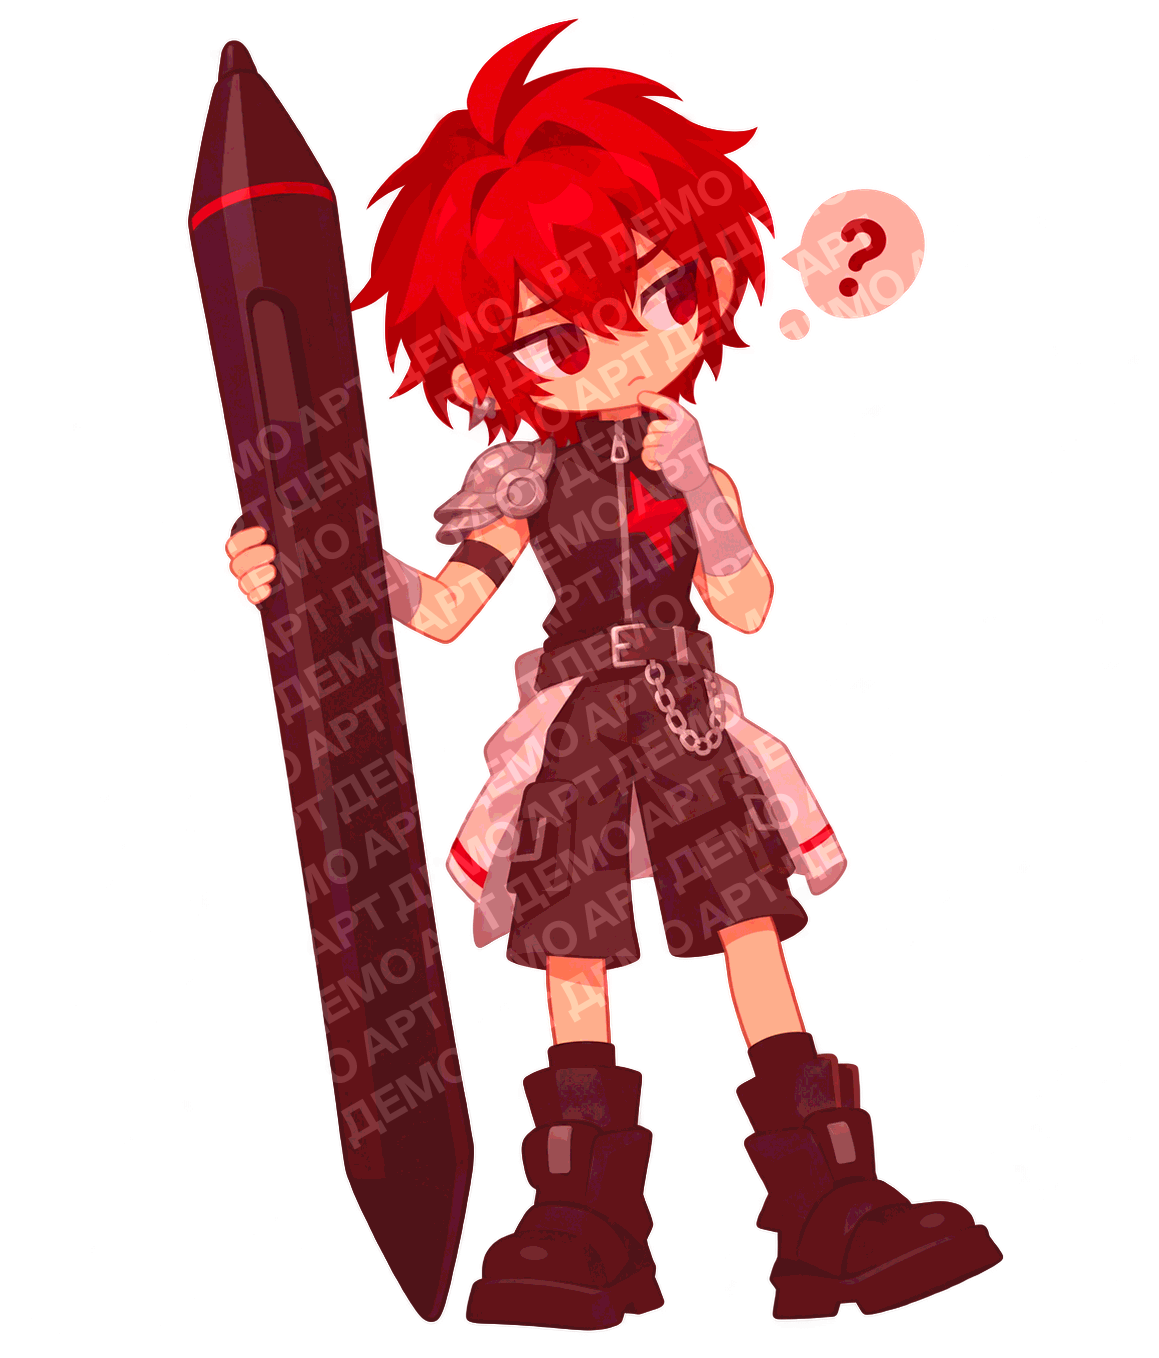
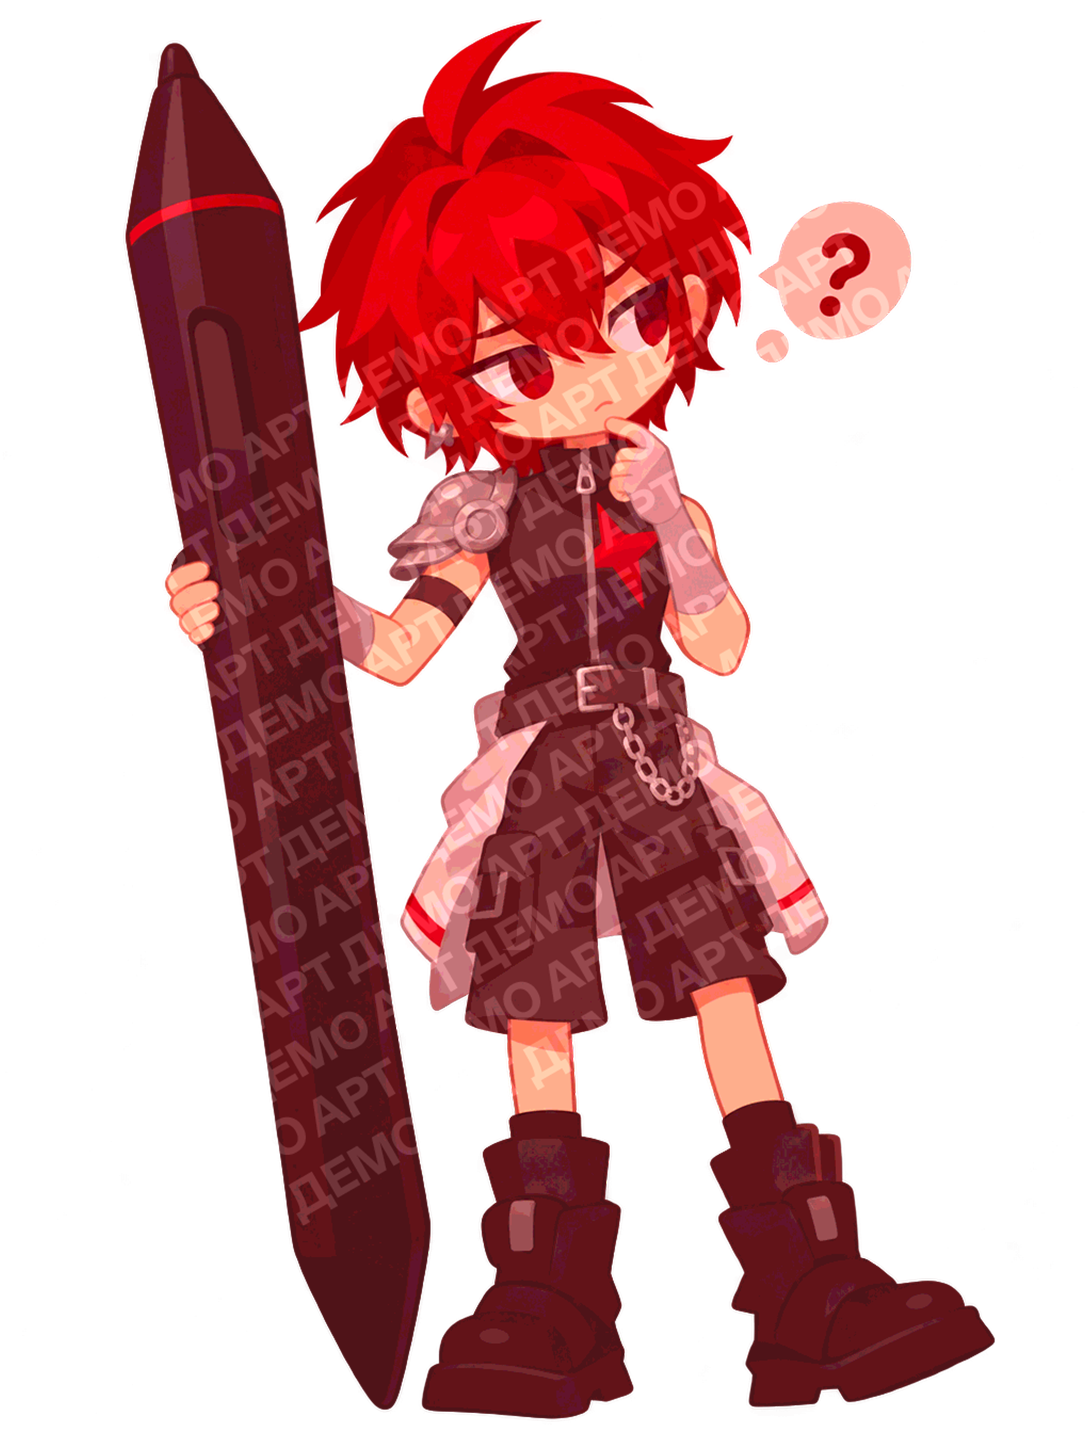
Add files via upload

Changed region(s): [[0.0912, 0.0, 0.4862, 0.9897], [0.5166, 0.0309, 0.9116, 0.9897], [0.547, 0.7732, 0.5773, 0.9588]]

diff --git a/styles.css b/styles.css
@@ -270,20 +270,32 @@ input,textarea,select{scroll-margin-block:28px}
 .planned-button:disabled{display:flex;align-items:center;gap:9px;min-height:44px;color:var(--muted);font-size:16px;font-weight:600;opacity:1;cursor:not-allowed;text-align:left;flex:1;min-width:150px}
 .planned-label{font-size:12px;font-weight:600;color:var(--muted);border:1px solid var(--line);border-radius:8px;padding:5px 8px;white-space:nowrap}.planned-feature p{flex-basis:100%;margin:0;font-size:15px;line-height:1.5;color:var(--muted)}
 .profile-card{text-align:center;padding:12px 0 24px}.profile-card .profile-avatar-large{width:82px;height:82px;font-size:32px;margin:0 auto 16px}.profile-card h3{font-size:24px;overflow-wrap:anywhere}.profile-card p{font-size:15px;line-height:1.5;color:var(--muted);margin-top:8px}.profile-friends h3{font-size:20px;margin-bottom:8px}.profile-friends>p{font-size:16px;line-height:1.5;color:var(--muted)}.profile-friends .planned-feature{margin:12px 0}.profile-local{display:flex;gap:9px;font-size:14px;line-height:1.5;color:var(--muted);margin-top:24px}.profile-local svg{flex-shrink:0;margin-top:2px}
-dialog.welcome-sheet{width:min(840px,calc(100% - 32px));max-width:840px;max-height:94dvh;border-radius:28px;background:var(--bg)}
-.welcome-sheet .sheet-header{background:var(--bg);padding:22px 28px 10px}.welcome-sheet .sheet-header h2{font-size:24px}.welcome-sheet .sheet-body{padding:8px 28px 24px}.intro-scene{position:relative;min-height:475px;display:flex;align-items:center;padding:18px 0}
-.intro-character{position:absolute;z-index:2;left:-22px;bottom:0;width:42%;height:100%;max-height:510px;object-fit:contain;object-position:center bottom;pointer-events:none;filter:drop-shadow(0 12px 16px #00000012)}
-.intro-panel{position:relative;margin-left:30%;width:70%;padding:30px 28px 30px 68px;border-radius:24px;background:var(--card);border:1px solid var(--line);box-shadow:0 8px 30px #00000004;min-width:0}
-.intro-eyebrow{font-size:13px;font-weight:650;letter-spacing:.08em;text-transform:uppercase;color:var(--muted);margin-bottom:12px}.intro-panel h3{font-size:28px;line-height:1.18;letter-spacing:-.6px;margin:0 0 26px;outline:none}.intro-feature{display:flex;align-items:flex-start;gap:13px;margin-top:22px}.intro-feature>svg{flex-shrink:0;color:var(--red);margin-top:1px}.intro-feature:nth-of-type(2)>svg{color:var(--blue)}.intro-feature:nth-of-type(3)>svg{color:var(--green)}.intro-feature strong{font-size:18px}.intro-feature p{font-size:16px;line-height:1.45;color:var(--muted);margin-top:5px}.intro-copy{font-size:16px;line-height:1.55;margin:0 0 16px}.intro-tip{display:flex;gap:10px;align-items:flex-start;background:var(--blue-soft);padding:14px;border-radius:14px;font-size:15px;line-height:1.5;margin:18px 0}.intro-tip svg{flex-shrink:0;color:var(--blue)}.intro-footnote{font-size:13px;line-height:1.5;color:var(--muted);margin-top:18px}.intro-navigation{display:flex;justify-content:space-between;align-items:center;gap:12px;padding-top:16px}.intro-progress{display:flex;gap:6px}.intro-progress i{width:8px;height:8px;border-radius:10px;background:var(--line)}.intro-progress .current{width:24px;background:var(--red)}.intro-buttons{display:flex;gap:8px}.intro-buttons .button{min-height:48px}
+/* Square illustration slots keep replacement chibis consistent throughout the app. */
+.illustration{aspect-ratio:1;object-fit:contain}
+.empty-art,.dialog-art,.help-art,.calculator-intro>.illustration{width:clamp(130px,38vw,210px);height:auto;aspect-ratio:1;object-fit:contain;margin:0 auto 16px}
+.profile-header{padding:7px 12px 7px 7px;background:var(--card);border:1px solid var(--line);border-radius:17px;min-height:56px;transition:background .15s}
+.profile-header:hover{background:var(--blue-soft)}.profile-header:active{transform:scale(.98)}
+.demo-banner{gap:10px}.demo-banner button{font-size:14px;font-weight:650;min-height:44px;padding:8px 12px;border-radius:12px;background:var(--card);white-space:nowrap}
+dialog.welcome-sheet{width:min(580px,calc(100% - 24px));max-width:580px;max-height:calc(100dvh - var(--safe-top,0px) - var(--safe-bottom,0px) - 24px);border-radius:26px;background:var(--card);overflow:auto;padding:0}
+.welcome-sheet .sheet-header{position:static;padding:16px 20px 6px;background:transparent}.welcome-sheet .sheet-header h2{font-size:21px}.welcome-sheet .sheet-body{padding:0 22px 20px}
+.intro-scene{display:flex;flex-direction:column;align-items:center;gap:8px}
+.intro-character{display:block;width:clamp(96px,23dvh,200px);height:auto;aspect-ratio:1;object-fit:contain;border-radius:20px;flex-shrink:0}
+.intro-panel{width:100%;min-height:235px;padding:0 8px}.intro-panel h3{font-size:24px;line-height:1.2;letter-spacing:-.5px;text-align:center;margin:0 0 18px;outline:none}
+.intro-feature{display:flex;align-items:center;gap:12px;margin:14px 0}.intro-feature>svg{color:var(--red)}.intro-feature:nth-of-type(2)>svg{color:var(--blue)}.intro-feature:nth-of-type(3)>svg{color:var(--green)}.intro-feature strong{font-size:17px}.intro-feature p{font-size:15px;line-height:1.4;color:var(--muted);margin-top:3px}
+.intro-copy{font-size:16px;line-height:1.5;margin:0 0 16px}.intro-tip{display:flex;gap:10px;align-items:flex-start;background:var(--blue-soft);border-radius:14px;padding:14px;font-size:15px;line-height:1.45;margin:14px 0}.intro-tip svg{flex-shrink:0;color:var(--blue)}.intro-future{color:var(--muted);font-size:15px}
+.intro-navigation{display:flex;align-items:center;justify-content:space-between;gap:12px;margin-top:12px}.intro-progress{display:flex;gap:6px;flex-shrink:0}.intro-progress i{width:8px;height:8px;border-radius:10px;background:var(--line)}.intro-progress .current{width:22px;background:var(--red)}.intro-buttons{display:flex;gap:10px}.intro-buttons .button{min-height:46px;padding:10px 18px}.intro-buttons .intro-arrow{width:48px;padding:10px}.intro-arrow:disabled{background:var(--bg);color:var(--muted);opacity:.45}.intro-demo-actions{display:flex;gap:8px}.intro-demo-actions .button{font-size:14px;padding:10px 12px}
 @media(max-width:600px){
- dialog.welcome-sheet{width:100%;max-width:100%;border-radius:26px 26px 0 0;max-height:94dvh}
- .welcome-sheet .sheet-header{padding:16px 20px 8px}.welcome-sheet .sheet-header h2{font-size:22px}.welcome-sheet .sheet-body{padding:0 16px 20px}
- .intro-scene{display:block;padding:0;min-height:0;padding-top:230px}
- .intro-character{top:0;bottom:auto;left:0;width:200px;height:310px;max-height:none;object-position:left top}
- .intro-panel{margin-left:26px;width:calc(100% - 26px);padding:90px 22px 24px;border-radius:22px}
- .intro-panel h3{font-size:25px;margin-bottom:22px}.intro-eyebrow{position:absolute;top:24px;right:20px;max-width:110px;font-size:12px;text-align:right}
- .intro-feature{margin-top:18px}.intro-feature p{font-size:16px}.intro-navigation{padding:16px 4px 0}.intro-buttons .button{padding:12px 18px}
+ dialog.welcome-sheet{top:50%;bottom:auto;left:50%;right:auto;transform:translate(-50%,-50%);margin:0;width:calc(100% - 24px);border:1px solid var(--line);border-radius:24px}
+ .welcome-sheet .sheet-body{padding:0 18px 18px}.intro-panel{padding:0;min-height:235px}.intro-panel h3{font-size:22px}.intro-character{width:clamp(90px,22dvh,180px)}
+ .intro-navigation:has(.intro-demo-actions){flex-direction:column;gap:12px}.intro-demo-actions{width:100%}.intro-navigation:has(.intro-demo-actions) .intro-buttons{width:100%}.intro-demo-actions .button{flex:1;min-width:0;font-size:15px}
+ .profile-header{max-width:calc(100% - 96px)}.profile-header .profile-avatar{width:38px;height:38px}
  .support-card{padding:16px;gap:10px}.support-card strong{font-size:17px}.support-card span span{font-size:14px}.support-icon{display:none}
 }
-@media(prefers-reduced-motion:reduce){.welcome-sheet *{animation:none;transition:none}}
-.welcome-sheet .intro-navigation{position:sticky;bottom:0;z-index:4;background:var(--bg);padding-bottom:6px}
+@media(max-height:680px){
+ .intro-character{width:clamp(70px,16dvh,110px)}.intro-panel{min-height:210px}.intro-panel h3{font-size:21px;margin-bottom:12px}.intro-feature{margin:10px 0}.intro-copy{font-size:15px;margin-bottom:10px}.intro-tip{padding:11px;margin:10px 0}.intro-navigation{margin-top:8px}
+ .welcome-sheet .sheet-header{padding-top:10px}.welcome-sheet .sheet-body{padding-bottom:12px}
+}
+@media(max-height:470px) and (min-width:520px){
+ .intro-scene{flex-direction:row;gap:20px}.intro-character{width:130px}.intro-panel{min-height:0}.intro-panel h3{text-align:left}.intro-navigation{margin-top:12px}
+}
+@media(prefers-reduced-motion:reduce){.welcome-sheet *,.profile-header{animation:none;transition:none}}

diff --git a/sw.js b/sw.js
@@ -1,7 +1,7 @@
 const SCOPE=new URL(self.registration.scope);
 const PREFIX=`solyanka:${SCOPE.pathname}:`;
-const CACHE=PREFIX+'v12';
-const FILES=['index.html','styles.css','app.mjs','domain.mjs','storage.mjs','collaboration.mjs','assets/logo.png','assets/favicon.svg','manifest.webmanifest','assets/hero-thinking.png','assets/hero-welcome.png','assets/backup-art.png','assets/calculator-art.png','assets/delete-art.png'];
+const CACHE=PREFIX+'v13';
+const FILES=['index.html','styles.css','app.mjs','domain.mjs','storage.mjs','collaboration.mjs','assets/logo.png','assets/favicon.svg','manifest.webmanifest','assets/kei-think.png','assets/kei-welcome.png','assets/backup-art.png','assets/calculator-art.png','assets/delete-art.png'];
 const URLS=new Set(FILES.map(file=>new URL(file,SCOPE).href));
 const INDEX=new URL('index.html',SCOPE).href;
 self.addEventListener('install',event=>{

diff --git a/README.md b/README.md
@@ -161,3 +161,13 @@ node --test tests/*.test.mjs
 Нажатие на имя или аватар открывает профиль. «Мои друзья», «Добавить друга» и «Добавить помощника» в обзоре маркета — отключённые кнопки с пометкой «В разработке». Действующих приглашений и отправки данных нет. Вверху настроек находится ссылка на https://t.me/slnkplus.
 
 Проверено: 50 существующих автоматических тестов; отдельно проверены страницы приветствия, раскрытие режима демо, экранирование имени в профиле, отключённые будущие функции и отсутствие прежнего названия в видимых текстах. Визуальная проверка на iPhone/Android в Telegram не проводилась.
+
+## Версия 1.6 — компактное знакомство и переключение демо
+
+Три коротких экрана: основные разделы → локальное хранение и копии → выбор демо. На первом экране стрелка назад отключена, на втором доступны стрелка назад и «Хорошо», на третьем — «Разберусь сам» и «Зайти в демо». Персонажи заменены на предоставленные `kei-welcome.png` и `kei-think.png`; места под иллюстрации квадратные. На стандартной высоте телефона макет рассчитан на показ слайда целиком; при экстремально малой высоте или увеличении текста остаётся страховочная прокрутка, чтобы элементы не обрезались. Профиль оформлен скруглённой кнопкой.
+
+Вход и выход из демо теперь переключают состояние внутри открытой страницы, без загрузки HTML заново. Личные данные сохраняются перед входом, демо хранится отдельно в памяти. Выход возвращает личные данные; для прямой ссылки `?demo=1` они читаются из хранилища. При отказе или зависании хранилища переключение отменяется с сообщением; пустые данные вместо существующих не подставляются. В адресе меняется только параметр `demo`, параметры и хеш запуска Telegram сохраняются. Кнопка называется «Выйти из демо».
+
+Прямой вход по демонстрационной ссылке сразу показывает пример. В обычной версии новое знакомство показывается один раз (`onboardingVersion = 3`), затем доступно в настройках.
+
+56 автоматических тестов прошли, включая возврат личных запасов, изоляцию демо, ошибку/зависание чтения и отказ сохранения. Воспроизведение исходного зависания и визуальная проверка в Telegram на реальном телефоне не проводились.

diff --git a/NETWORK.md b/NETWORK.md
@@ -1,6 +1,6 @@
 # Основа совместной работы
 
-Статус версии 1.5: локальное приложение. В коде нет сетевого транспорта, удалённой базы, сессий, действующих приглашений или платежей. Все перечисленные ниже серверные маршруты — проект контракта, их ещё нет.
+Статус версии 1.6: локальное приложение. В коде нет сетевого транспорта, удалённой базы, сессий, действующих приглашений или платежей. Все перечисленные ниже серверные маршруты — проект контракта, их ещё нет.
 
 ## Что реализовано
 
